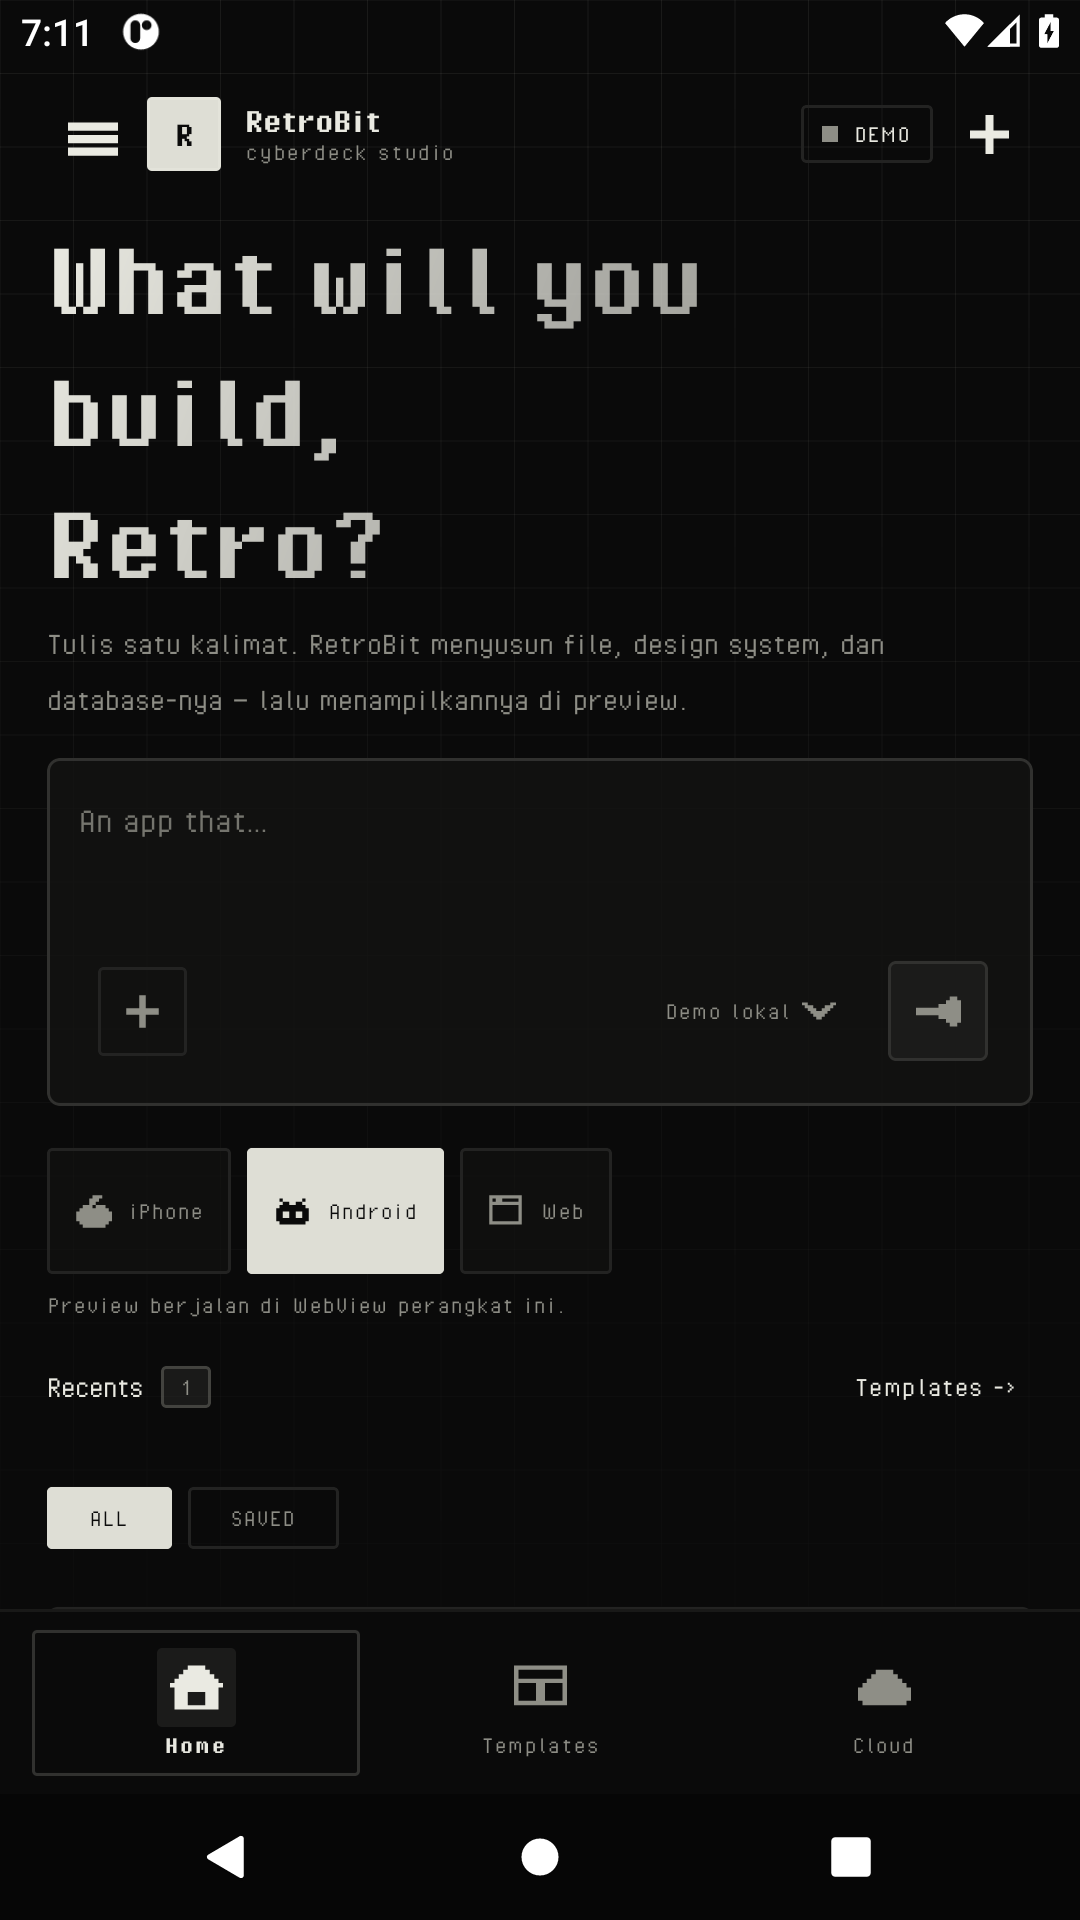
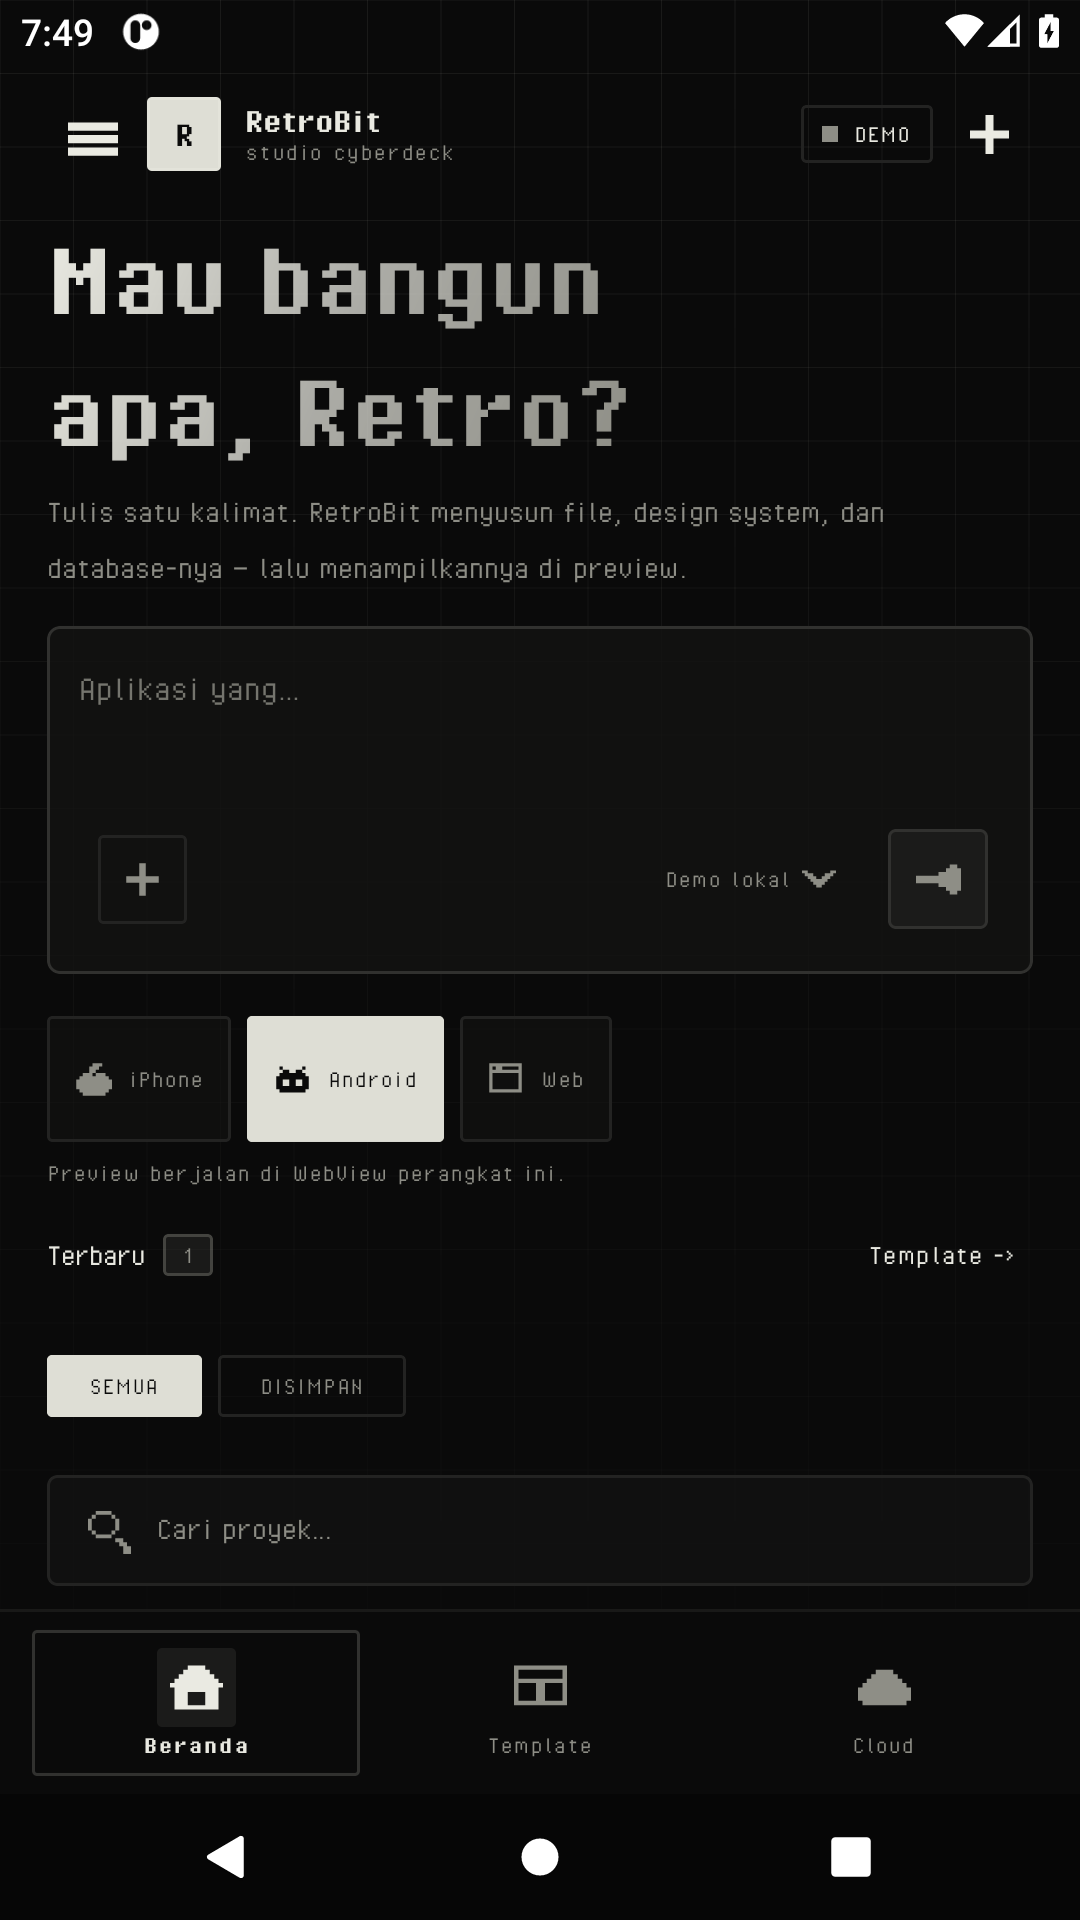
Refresh screenshots for the Indonesian UI
Dashboard now shows 'Mau bangun apa, Retro?' with the Indonesian nav bar; the
drawer and Cloud shots prove the drawer copy and the grayscale demo badge.

diff --git a/README.md b/README.md
@@ -14,6 +14,8 @@ Aplikasi Android native (Kotlin + Jetpack Compose) untuk membangun aplikasi web 
   <img src="docs/screenshots/workspace.png" alt="Workspace dengan enam tab" width="200" />
   <img src="docs/screenshots/preview.png" alt="Preview aplikasi" width="200" />
   <img src="docs/screenshots/agent.png" alt="Agen demo menulis file" width="200" />
+  <img src="docs/screenshots/drawer.png" alt="Drawer navigasi" width="200" />
+  <img src="docs/screenshots/cloud.png" alt="Halaman AI Cloud" width="200" />
 </p>
 
 <p align="left">
